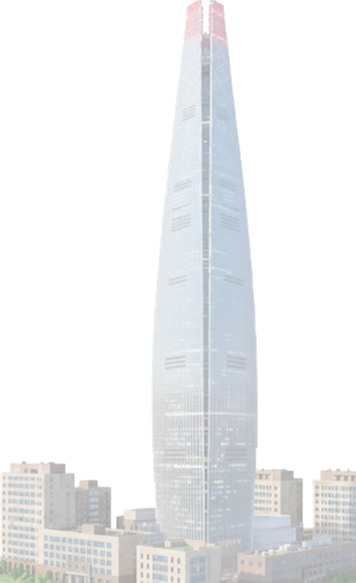
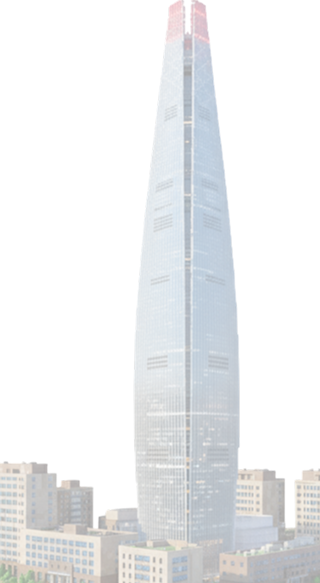
Feat: 롯데타워 이미지 오류 해결

diff --git a/src/commponent/RedPageCommponent/BuildingGrid.tsx b/src/commponent/RedPageCommponent/BuildingGrid.tsx
@@ -6,7 +6,6 @@ import 빅벤_흐림 from "../../assets/building/빅벤_흐림.png";
 import 남산타워_흐림 from "../../assets/building/남산타워_흐림.png";
 import 롯데타워_흐림 from "../../assets/building/롯데타워_흐림.png";
 import 칼리파_흐림 from "../../assets/building/칼리파_흐림.png";
-
 import 정보섬_밝음 from "../../assets/building/정보섬_밝음.png";
 import 빅벤_밝음 from "../../assets/building/빅벤_밝음.png";
 import 칼리파_밝음 from "../../assets/building/칼리파_밝음.png";

diff --git a/src/commponent/RedPageCommponent/BuildingGrid.module.css b/src/commponent/RedPageCommponent/BuildingGrid.module.css
@@ -47,7 +47,7 @@
 
 .lotte {
   max-height: 76vh;
-  left: 63%;
+  left: 62%;
   z-index: 2;
   transform: scale(0.95);
   transform-origin: bottom center;
